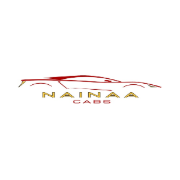
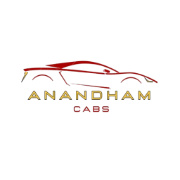
update the anandham cabs

Changed region(s): [[0.1111, 0.3333, 0.9167, 0.6389], [0.0833, 0.4722, 0.1111, 0.5]]

diff --git a/index.html b/index.html
@@ -2,22 +2,85 @@
 <html lang="en">
   <head>
     <meta charset="UTF-8" />
-    <link rel="shortcut icon" href="/logo.jpg" type="image/x-icon" />
-
+    <link rel="shortcut icon" href="/logo.png" type="image/x-icon" />
+    <!-- Favicon for general browsers -->
+    <link
+      rel="icon"
+      type="image/png"
+      href="%PUBLIC_URL%/favicon-16x16.png"
+      sizes="16x16"
+    />
+    <link
+      rel="icon"
+      type="image/png"
+      href="%PUBLIC_URL%/favicon-32x32.png"
+      sizes="32x32"
+    />
     <link
       rel="icon"
       type="image/png"
       href="%PUBLIC_URL%/favicon-96x96.png"
       sizes="96x96"
     />
+    <link
+      rel="icon"
+      type="image/png"
+      href="%PUBLIC_URL%/favicon-192x192.png"
+      sizes="192x192"
+    />
+    <link
+      rel="icon"
+      type="image/png"
+      href="%PUBLIC_URL%/favicon-512x512.png"
+      sizes="512x512"
+    />
+
+    <!-- SVG Favicon -->
     <link rel="icon" type="image/svg+xml" href="%PUBLIC_URL%/favicon.svg" />
+
+    <!-- Shortcut Icon -->
     <link rel="shortcut icon" href="%PUBLIC_URL%/favicon.ico" />
+
+    <!-- Apple Touch Icon -->
     <link
       rel="apple-touch-icon"
       sizes="180x180"
       href="%PUBLIC_URL%/apple-touch-icon.png"
     />
+
+    <!-- Web App Manifest -->
     <link rel="manifest" href="%PUBLIC_URL%/site.webmanifest" />
+
+    <!-- Primary favicon -->
+    <link rel="icon" type="image/png" sizes="32x32" href="/favicon-32x32.png" />
+    <link rel="icon" type="image/png" sizes="16x16" href="/favicon-16x16.png" />
+
+    <!-- Android and Progressive Web App icons -->
+    <link
+      rel="icon"
+      type="image/png"
+      sizes="192x192"
+      href="/android-chrome-192x192.png"
+    />
+    <link
+      rel="icon"
+      type="image/png"
+      sizes="512x512"
+      href="/android-chrome-512x512.png"
+    />
+
+    <!-- Apple Touch Icon -->
+    <link rel="apple-touch-icon" sizes="180x180" href="/apple-touch-icon.png" />
+
+    <!-- Web Manifest (for PWA) -->
+    <link rel="manifest" href="/site.webmanifest" />
+
+    <!-- Safari Pinned Tab -->
+    <link rel="mask-icon" href="/safari-pinned-tab.svg" color="#5bbad5" />
+
+    <!-- Fallback for older browsers -->
+    <link rel="shortcut icon" href="/favicon.ico" />
+
     <style>
       @import url("https://fonts.googleapis.com/css2?family=Poppins:ital,wght@0,100;0,200;0,300;0,400;0,500;0,600;0,700;0,800;0,900;1,100;1,200;1,300;1,400;1,500;1,600;1,700;1,800;1,900&family=Roboto:ital,wght@0,100..900;1,100..900&display=swap");
       * {
@@ -28,16 +91,16 @@
     <meta name="viewport" content="width=device-width, initial-scale=1.0" />
     <meta
       name="description"
-      content="NAINAA CABS - Fast, reliable, and affordable cab booking service. Book rides instantly and travel safely with ease."
+      content="ANANDHAM-CABS - Fast, reliable, and affordable cab booking service. Book rides instantly and travel safely with ease."
     />
 
     <meta
       name="keywords"
-      content="cab booking, taxi service, ride booking, online cab, NAINAA CABS, car hire"
+      content="cab booking, taxi service, ride booking, online cab, ANANDHAM-CABS, car hire"
     />
     <meta name="author" content="leastaction" />
     <meta name="robots" content="index, follow" />
-    <link rel="canonical" href="https://nainaa-cabs.com/" />
+    <link rel="canonical" href="https://anandham-cabs.com/" />
 
     <meta
       name="google-site-verification"
@@ -47,18 +110,21 @@
     <!-- Open Graph for Social Sharing -->
     <meta
       property="og:title"
-      content="NAINAA CABS - Reliable Cab Booking Service"
+      content="ANANDHAM-CABS - Reliable Cab Booking Service"
     />
     <meta
       property="og:description"
-      content="Book affordable and fast rides with NAINAA CABS. Trusted by thousands for daily travel and special trips."
+      content="Book affordable and fast rides with ANANDHAM-CABS. Trusted by thousands for daily travel and special trips."
     />
 
-    <meta property="og:image" content="https://nainaa-cabs.com/nainaa.png" />
-    <meta property="og:url" content="https://www.nainaa-cabs.com" />
+    <meta
+      property="og:image"
+      content="https://anandham-cabs.com/anandham.png"
+    />
+    <meta property="og:url" content="https://www.anandham-cabs.com" />
     <meta property="og:type" content="website" />
 
-    <title>NAINAA CABS</title>
+    <title>ANANDHAM-CABS</title>
   </head>
   <body>
     <div id="root"></div>

diff --git a/src/Components/Footer.jsx b/src/Components/Footer.jsx
@@ -6,7 +6,7 @@ import {
   FaEnvelope,
 } from "react-icons/fa";
 import lalogo from "../assets/la.jpg";
-import logo from "../assets/logo.jpg";
+import logo from "../assets/anandham.jpg";
 
 const Footer = () => {
   const socialLinks = [
@@ -29,23 +29,23 @@ const Footer = () => {
   ];
 
   return (
-    <footer className="bg-[#2E709E] text-white py-10 px-6">
-      <div className="max-w-7xl mx-auto grid gap-10 md:grid-cols-4 text-center md:text-left">
+    <footer className="bg-[#2E709E] text-white py-10 px-6 ">
+      <div className="max-w-7xl ml-14 mr-14 mx-auto grid md:grid-cols-4 text-center md:text-left">
         {/* Company Info */}
         <div>
-          <div className="flex items-center justify-center md:justify-start gap-4 mb-4">
+          <div className="flex items-center  justify-center md:justify-start gap-4 mb-4">
             <img
               src={logo}
               alt="Nainaa Cabs"
               className="w-16 h-16 object-cover rounded-full"
             />
             <h2 className="text-2xl font-bold">
-              <span className="text-[#E6A43B]">N</span>AINAA{" "}
+              <span className="text-[#E6A43B]">A</span>NANDHAM{" "}
               <span className="text-[#E6A43B]">C</span>ABS
             </h2>
           </div>
           <p className="text-sm leading-relaxed">
-            At Nainaa Cabs, we provide premium, comfortable and affordable Cab
+            At Anandham-Cabs, we provide premium, comfortable and affordable Cab
             Services for every journey – driven by a passion for travel,
             customer satisfaction, and unmatched service quality.
           </p>

diff --git a/src/Components/AdminFooter.jsx b/src/Components/AdminFooter.jsx
@@ -21,13 +21,13 @@ const AdminFooter = () => {
               className="w-16 h-16 object-cover rounded-full"
             />
             <h2 className="text-2xl font-bold">
-              <span className="text-[#E6A43B]">N</span>AINAA{" "}
+              <span className="text-[#E6A43B]">A</span>NANDHAM{" "}
               <span className="text-[#E6A43B]">C</span>ABS
             </h2>
           </div>
 
           <p className="text-sm leading-relaxed">
-            At Nainaa Cabs, we provide premium, comfortable and affordable Cab
+            At Anandham-Cabs, we provide premium, comfortable and affordable Cab
             Services for every journey – driven by a passion for travel,
             customer satisfaction, and unmatched service quality.
           </p>

diff --git a/src/Pages/About.jsx b/src/Pages/About.jsx
@@ -14,10 +14,10 @@ const About = () => {
         {/* Left Text Content */}
         <div className="md:w-1/2 space-y-6">
           <h1 className="text-4xl font-extrabold text-[#2E709E]">
-            NAINAA CABS
+            ANANDAM-CABS
           </h1>
           <p className="text-gray-600 text-base leading-relaxed">
-            Based in Trichy, Tamil Nadu, Nainaa Cabs believes that premium
+            Based in Trichy, Tamil Nadu, Anandham Cabs believes that premium
             travel should be accessible to everyone - which is why we offer a
             high-quality travel experience at an affordable cost. Whether you
             need a one-way ride or a round-trip. We provide top-notch service at

diff --git a/src/Components/AdminNav.jsx b/src/Components/AdminNav.jsx
@@ -56,7 +56,7 @@ const AdminNav = () => {
           <a href="/admin">
             <img
               src={logo}
-              alt="Nainaa-logo"
+              alt="anandham-logo"
               className="h-full w-full object-cover z-10 logo-image"
             />
           </a>

diff --git a/src/Pages/Home.jsx b/src/Pages/Home.jsx
@@ -116,7 +116,7 @@ const Home = () => {
 
         <div className="mx-auto me-auto text-2xl md:text-4xl  font-semibold text-[#2E709E]">
           {" "}
-          <h1>Nainaa Cabs Booking History </h1>
+          <h1>Anandham-Cabs Booking History </h1>
         </div>
       </div>
 
